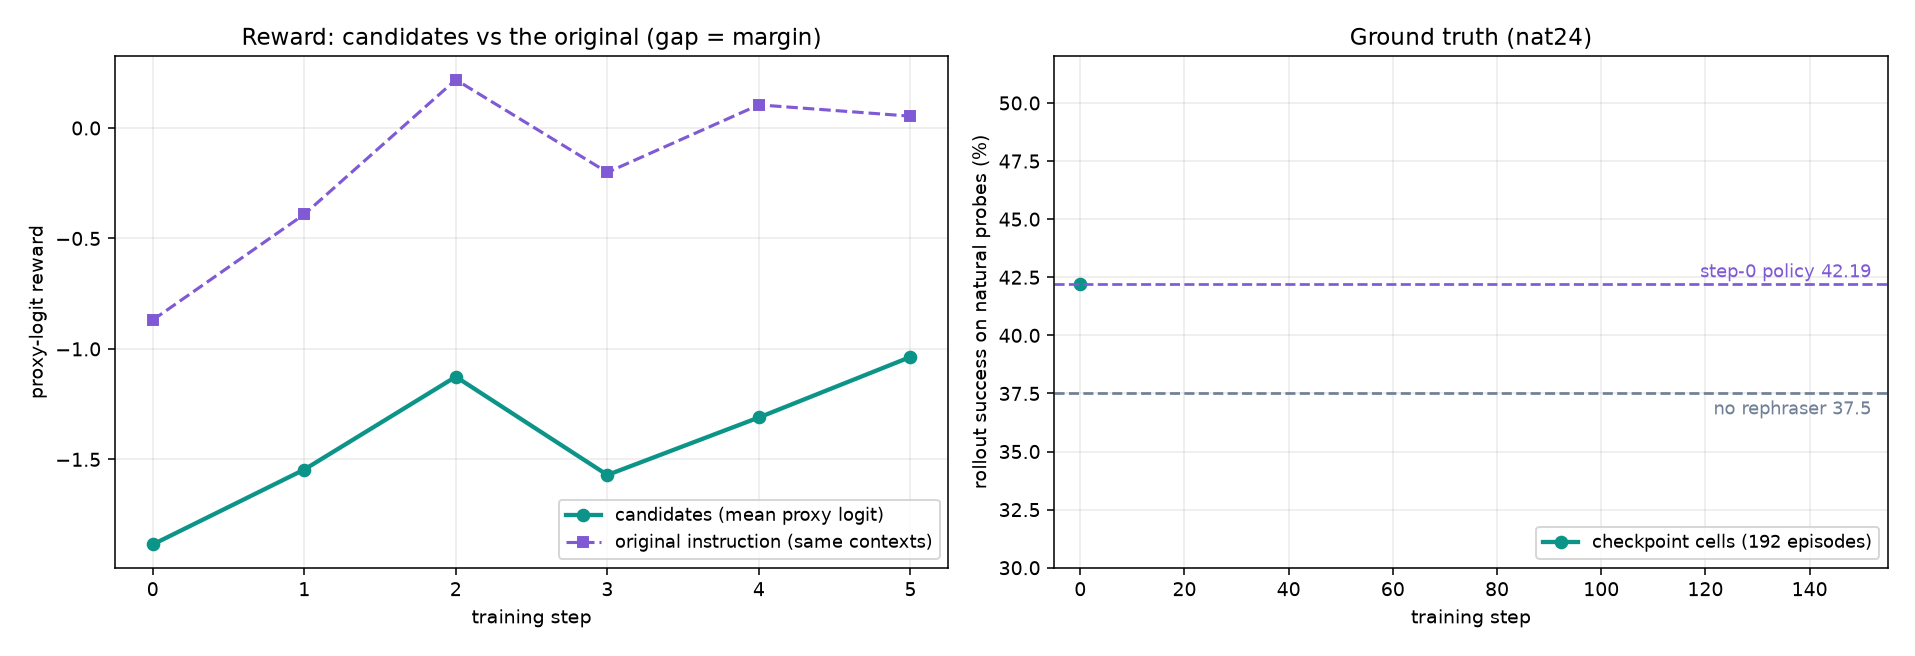
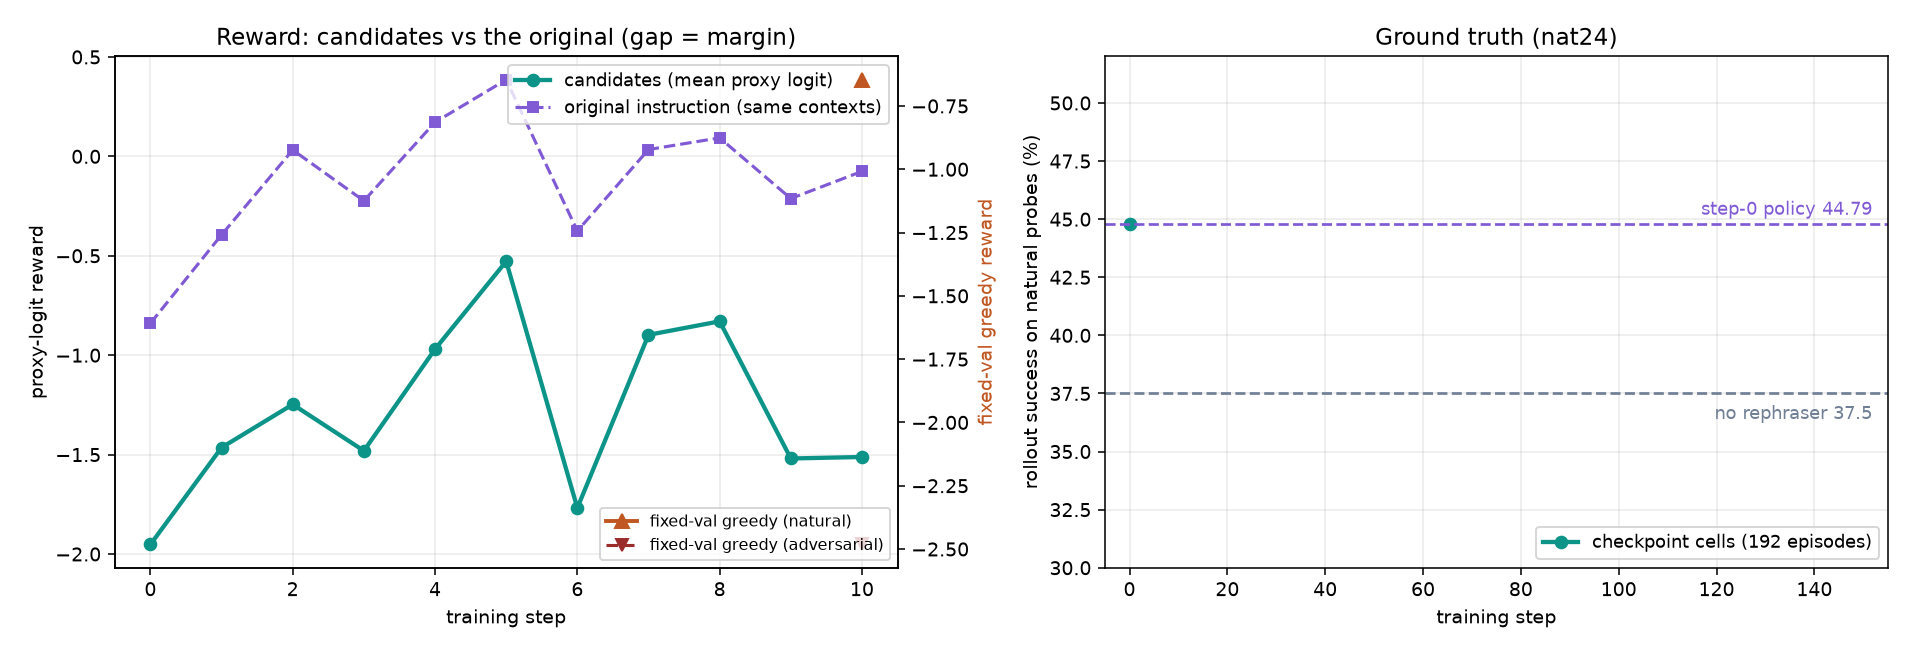
v12 chart: dynamic reference levels from cell jsons (image-family step-0 = 44.79 supersedes hardcoded 42.19); telemetry refresh

diff --git a/scripts/make_v12_progress.py b/scripts/make_v12_progress.py
@@ -68,12 +68,21 @@ if cells:
 for s, v in judges:
     a2.scatter([s], [v], marker="D", s=90, color="#c53030", zorder=5,
                label="768-episode judge" if (s, v) == judges[0] else None)
-a2.axhline(42.19, ls="--", color="#805ad5", lw=1.4)
-a2.text(0.98, 42.5, "step-0 policy 42.19", color="#805ad5", fontsize=9,
-        ha="right", transform=a2.get_yaxis_transform())
-a2.axhline(37.5, ls="--", color="#718096", lw=1.4)
-a2.text(0.98, 36.6, "no rephraser 37.5", color="#718096", fontsize=9,
-        ha="right", transform=a2.get_yaxis_transform())
+refs = {}
+for name, f in (("step0", "results/analysis/v12cells/nat24_0000.json"),
+                ("pass", "results/analysis/v12cells/nat24_pass.json")):
+    try:
+        refs[name] = json.load(open(f))["pooled"]
+    except FileNotFoundError:
+        pass
+if "step0" in refs:
+    a2.axhline(refs["step0"], ls="--", color="#805ad5", lw=1.4)
+    a2.text(0.98, refs["step0"] + 0.4, f"step-0 policy {refs['step0']}",
+            color="#805ad5", fontsize=9, ha="right", transform=a2.get_yaxis_transform())
+if "pass" in refs:
+    a2.axhline(refs["pass"], ls="--", color="#718096", lw=1.4)
+    a2.text(0.98, refs["pass"] - 1.1, f"no rephraser {refs['pass']}",
+            color="#718096", fontsize=9, ha="right", transform=a2.get_yaxis_transform())
 a2.set_ylim(30, 52)
 a2.set_xlim(-5, 155)
 a2.set_xlabel("training step")
